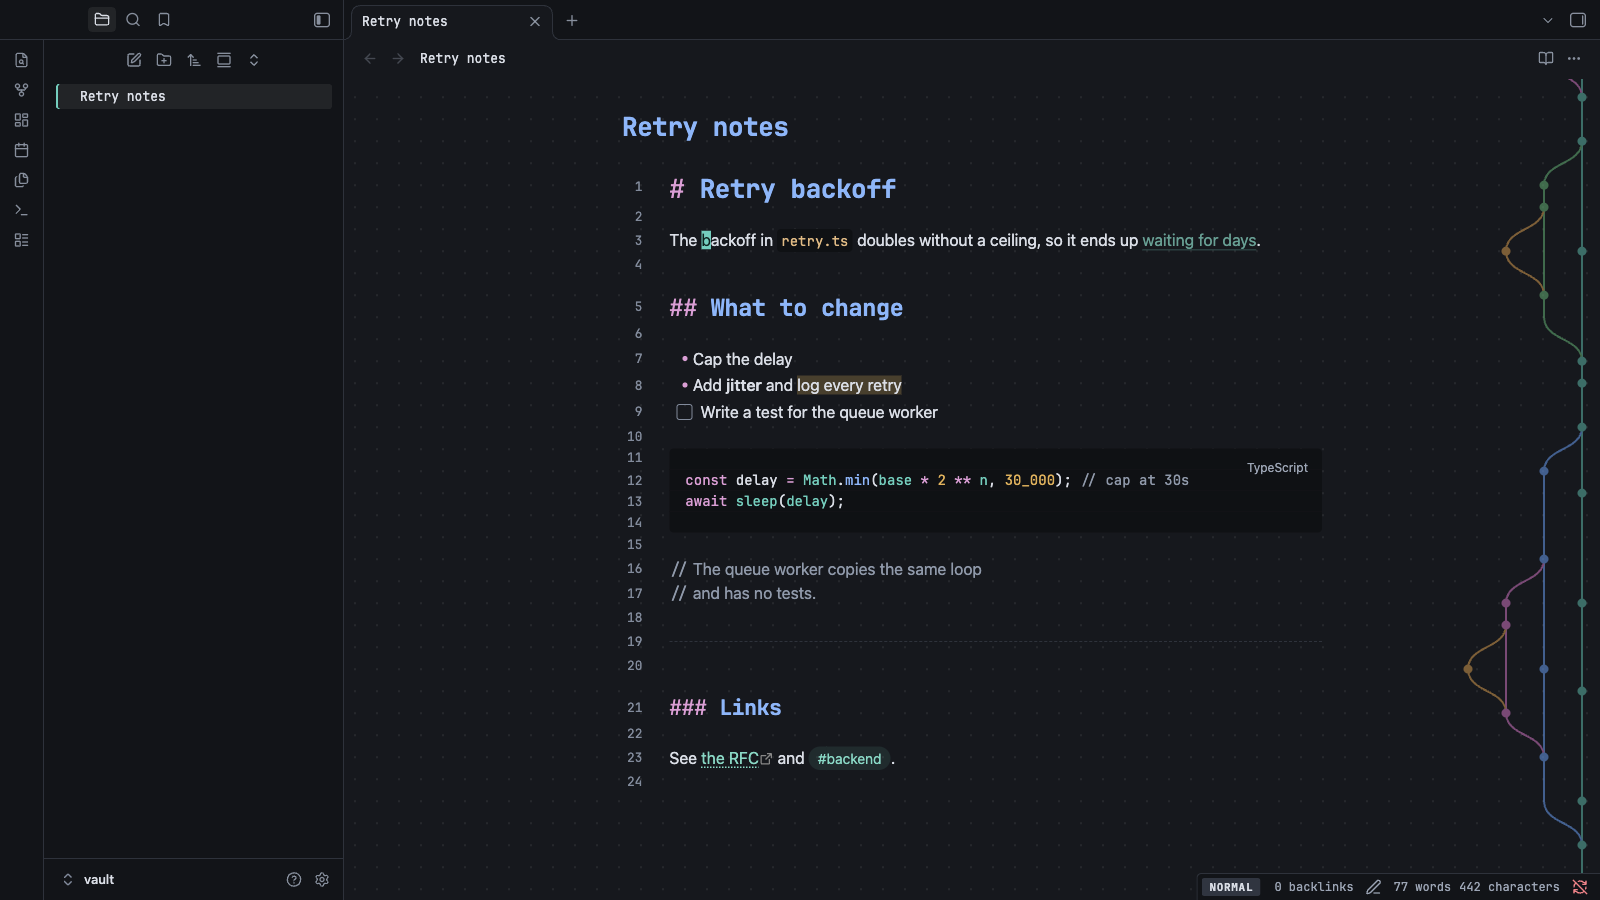
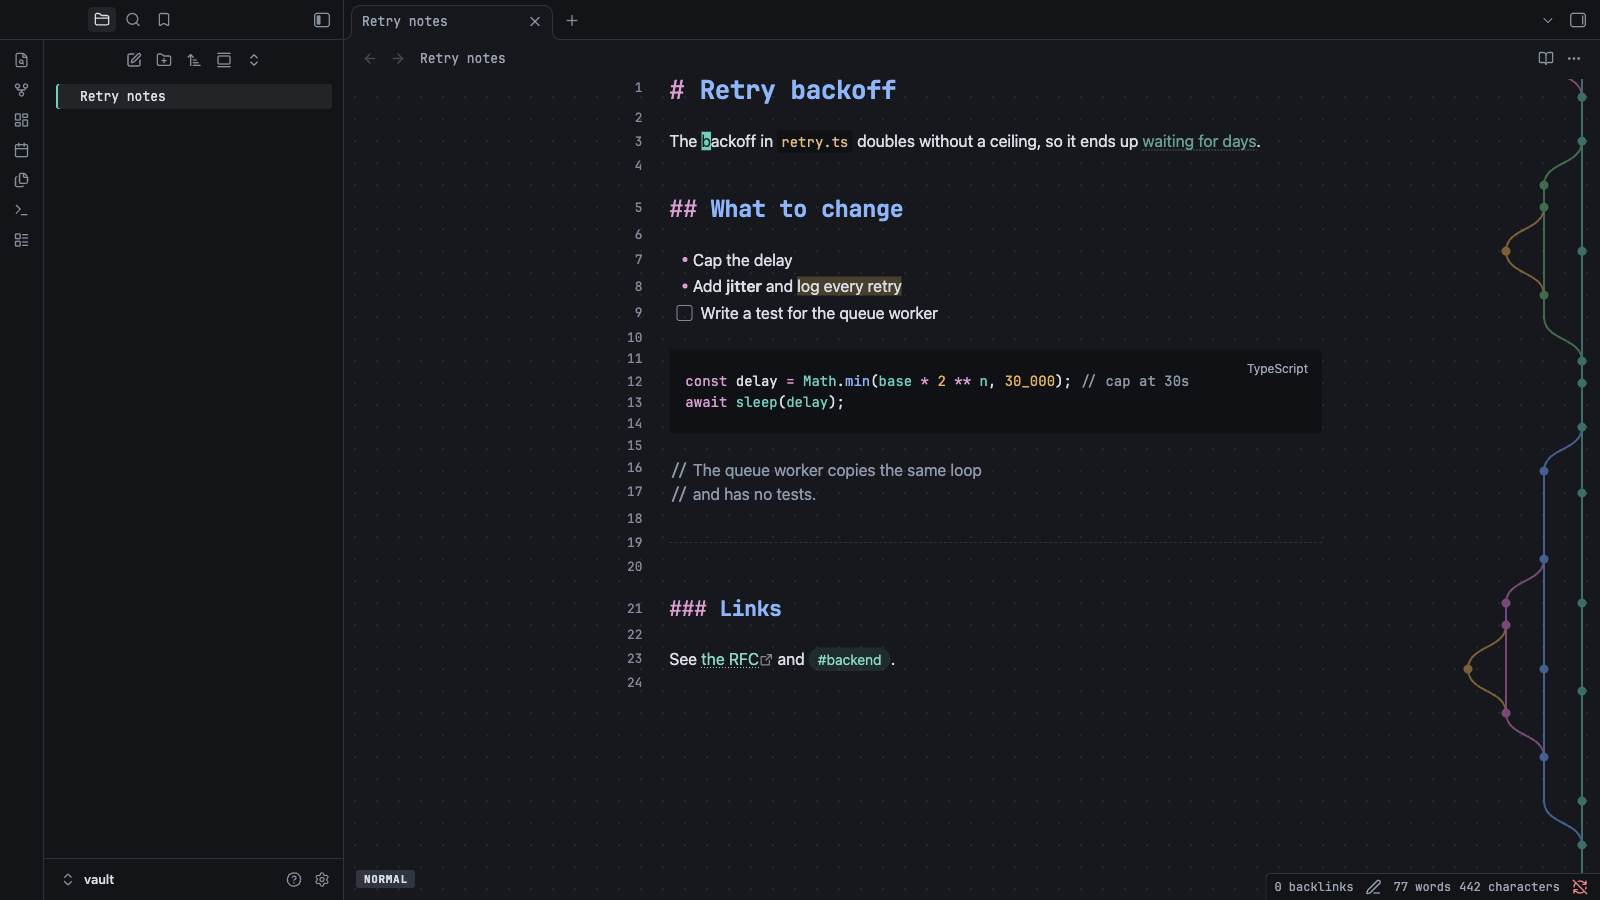
Fix CSS lint warnings, move the mode chip into the note
Drop every :has selector and the text-decoration rules flagged by the
directory lint. The Vim mode chip now sits in the corner of the focused
note, driven by CodeMirror's own cm-vimMode class, and links draw a
dotted underline with a background instead of text-decoration.

diff --git a/theme.css b/theme.css
@@ -37,13 +37,13 @@ body{--font-monospace-theme:"JetBrains Mono","SF Mono",ui-monospace,Menlo,Consol
 .markdown-rendered h5::before{content:"##### "}
 .markdown-rendered h6::before{content:"###### "}
 .markdown-source-view.mod-cm6 .cm-formatting-header{color:var(--sb-kw);font-weight:400}
-.markdown-source-view.is-live-preview .HyperMD-header:not(:has(.cm-formatting-header))::before{color:var(--sb-kw);font-weight:400}
-.markdown-source-view.is-live-preview .HyperMD-header-1:not(:has(.cm-formatting-header))::before{content:"# "}
-.markdown-source-view.is-live-preview .HyperMD-header-2:not(:has(.cm-formatting-header))::before{content:"## "}
-.markdown-source-view.is-live-preview .HyperMD-header-3:not(:has(.cm-formatting-header))::before{content:"### "}
-.markdown-source-view.is-live-preview .HyperMD-header-4:not(:has(.cm-formatting-header))::before{content:"#### "}
-.markdown-source-view.is-live-preview .HyperMD-header-5:not(:has(.cm-formatting-header))::before{content:"##### "}
-.markdown-source-view.is-live-preview .HyperMD-header-6:not(:has(.cm-formatting-header))::before{content:"###### "}
+.markdown-source-view.is-live-preview .HyperMD-header:not(.cm-active)::before{color:var(--sb-kw);font-weight:400}
+.markdown-source-view.is-live-preview .HyperMD-header-1:not(.cm-active)::before{content:"# "}
+.markdown-source-view.is-live-preview .HyperMD-header-2:not(.cm-active)::before{content:"## "}
+.markdown-source-view.is-live-preview .HyperMD-header-3:not(.cm-active)::before{content:"### "}
+.markdown-source-view.is-live-preview .HyperMD-header-4:not(.cm-active)::before{content:"#### "}
+.markdown-source-view.is-live-preview .HyperMD-header-5:not(.cm-active)::before{content:"##### "}
+.markdown-source-view.is-live-preview .HyperMD-header-6:not(.cm-active)::before{content:"###### "}
 
 /* Inline code reads as a string */
 .markdown-rendered :not(pre)>code,.markdown-source-view.mod-cm6 .cm-inline-code:not(.cm-formatting){color:var(--sb-str)}
@@ -52,11 +52,12 @@ body{--font-monospace-theme:"JetBrains Mono","SF Mono",ui-monospace,Menlo,Consol
 .markdown-rendered blockquote{padding-inline-start:26px;background:var(--sb-slash) 0 0/22px 1lh no-repeat;background-repeat:no-repeat round}
 .markdown-source-view.mod-cm6 .HyperMD-quote::before{display:none}
 .markdown-source-view.mod-cm6 .HyperMD-quote{color:var(--blockquote-color);font-style:italic}
-.markdown-source-view.mod-cm6 .cm-formatting-quote .cm-transparent{display:none}
-.markdown-source-view.mod-cm6 .cm-formatting-quote:has(.cm-transparent)::before{content:"//";color:var(--sb-cm);font-family:var(--sb-mono);font-style:normal}
+.markdown-source-view.mod-cm6 .cm-formatting-quote .cm-transparent{font-size:0}
+.markdown-source-view.mod-cm6 .cm-formatting-quote .cm-transparent::before{content:"//";font-size:var(--font-text-size);color:var(--sb-cm);font-family:var(--sb-mono);font-style:normal}
 
 /* Links underline with dots, like a go-to-definition hint */
-.markdown-rendered a,.markdown-source-view.mod-cm6 .cm-underline{text-decoration-style:dotted;text-underline-offset:3px}
+body{--link-decoration:none;--link-decoration-hover:none;--link-external-decoration:none;--link-external-decoration-hover:none}
+.markdown-rendered a,.markdown-source-view.mod-cm6 .cm-underline{background-image:linear-gradient(to right,currentColor 1px,transparent 1px);background-size:3px 1px;background-repeat:repeat-x;background-position:0 100%}
 .markdown-rendered hr,.markdown-source-view.mod-cm6 hr{border-top-style:dashed}
 
 /* Editor gutter and cursor */
@@ -64,8 +65,12 @@ body{--font-monospace-theme:"JetBrains Mono","SF Mono",ui-monospace,Menlo,Consol
 .markdown-source-view.mod-cm6 .cm-activeLineGutter{color:var(--text-accent)}
 .markdown-source-view.mod-cm6 .cm-content{caret-color:var(--interactive-accent)}
 
-/* Vim mode chip in the status bar: real Vim modes when Vim key bindings are on */
-body:has(.workspace-leaf.mod-active .cm-editor.cm-focused){--sb-mode:var(--sb-insert)}
-body:has(.workspace-leaf.mod-active .cm-editor.cm-focused .cm-fat-cursor){--sb-mode:var(--sb-normal)}
-body:has(.workspace-leaf.mod-active .cm-editor.cm-focused .cm-fat-cursor):has(.workspace-leaf.mod-active .cm-editor.cm-focused .cm-layer.cm-cursorLayer .cm-cursor-primary){--sb-mode:var(--sb-visual)}
-.status-bar::before{content:"";flex:0 0 auto;width:var(--sb-mode-w);height:18px;margin-inline-end:6px;background:var(--sb-mode) 0 0/auto 18px no-repeat}
+/* Vim mode chip in the corner of the focused note, like a Vim mode line.
+   Obsidian adds .cm-vimMode in Normal and Visual and drops it in Insert. */
+.markdown-source-view.mod-cm6 .cm-editor.cm-focused .cm-scroller::after,.markdown-source-view.mod-cm6 .cm-editor.cm-focused .cm-vimMode>.cm-layer.cm-cursorLayer:not(:empty)::after{content:"";position:fixed;left:12px;bottom:12px;width:59px;height:18px;pointer-events:none;background:var(--sb-insert) 0 0/auto 18px no-repeat}
+.markdown-source-view.mod-cm6 .cm-editor.cm-focused .cm-scroller.cm-vimMode::after{background-image:var(--sb-normal)}
+/* Visual: this layer holds a cursor only in Visual mode. Obsidian hides it under Vim;
+   show the layer (not its cursor) and hang a steady VISUAL chip on it. */
+.markdown-source-view.mod-cm6 .cm-editor.cm-focused .cm-vimMode>.cm-layer.cm-cursorLayer:not(:empty){display:block !important;animation:none !important}
+.markdown-source-view.mod-cm6 .cm-editor.cm-focused .cm-vimMode>.cm-layer.cm-cursorLayer:not(:empty)>*{visibility:hidden}
+.markdown-source-view.mod-cm6 .cm-editor.cm-focused .cm-vimMode>.cm-layer.cm-cursorLayer:not(:empty)::after{background-image:var(--sb-visual)}

diff --git a/README.md b/README.md
@@ -8,7 +8,7 @@ Your vault as an open editor buffer. Scratch Buffer is a light and dark Obsidian
 
 - **Markdown reads like source.** Headings keep their `#` markers. Inline code is coloured like a string, quotes read as `//` comments, and links get a dotted underline.
 - **A git graph runs down the margin**, with whitespace dots behind it, in the same colours as the syntax.
-- **A Vim mode chip sits in the status bar.** With Vim key bindings on, it shows `NORMAL`, `INSERT` or `VISUAL`. Without Vim, it shows `INSERT` while you're typing in a note.
+- **A Vim mode chip sits in the corner of the note you're editing**, like a Vim mode line. With Vim key bindings on, it shows `NORMAL`, `INSERT` or `VISUAL`. Without Vim, it shows `INSERT` while you're typing.
 - **Monospace interface.** The file tree, tabs, headings and line numbers use [JetBrains Mono](https://www.jetbrains.com/lp/mono/) if you have it installed, then your system monospace font. Note text keeps your normal text font.
 
 ![Scratch Buffer, light](images/light.png)
